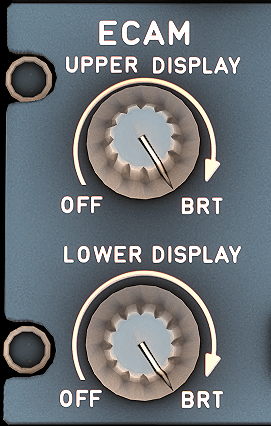
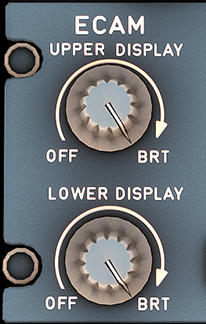
Image size fix

diff --git a/docs/beginner-guide/starting-the-aircraft.md b/docs/beginner-guide/starting-the-aircraft.md
@@ -143,7 +143,7 @@ For the PFD and ND, the knobs are in the same location. Look left (or right when
 
 For the ECAM upper and lower display, look just in front of the throttles and find the brightness knobs. Just like the PFD and ND knobs, rotate them as required.
 
-![ECAM brightness](../assets/beginner-guide/starting-aircraft/ecam-knobs.png "ECAM brightness"){ width=30% }
+![ECAM brightness](../assets/beginner-guide/starting-aircraft/ecam-knobs.png "ECAM brightness")
 
 For the ISIS display brightness (just left of the upper ECAM), use the `+` and `-` buttons until the brightness is suitable. While we are at the ISIS display, set the current QNH.
 
@@ -157,14 +157,14 @@ Looking down at the **radio panel**, set the `RMP 1` to the active **ATIS** freq
 
 ![Radio Panel](../assets/beginner-guide/starting-aircraft/radiopanel.png "Radio Panel"){ width=70% }
 
-After setting correct frequencies, locate the `BARO` reference on the **glareshield**. We can set the barometer in either `in Hg` or `hPa` by turning the grey inner selector behind the knob. For this flight ensure that you are set to `QNH`. You can change this by "pushing" on the BARO knob (the tooltip will have an upwards arrow). 
+After setting correct frequencies, locate the `BARO` reference on the **glareshield**. We can set the barometer in either `in Hg` or `hPa` by turning the grey inner selector behind the knob. For this flight ensure that you are set to `QNH`. You can change this by "pushing" on the BARO knob (the tooltip will have an upwards arrow).
 
 !!! info "A note on QNH and QFE"
     Choosing between using QNH and QFE is a little beyond the scope of this guide. In most cases you will be flying using `QNH` at or below the transition level for your flight (on departure or arrival).
 
     - **QNH:** Altimeter indicates height above sea level.
-    
-    - **QFE:** Altimeter indicates height above reference elevation in use (airfield or touchdown). This setting is usually tied to a procedure in use by the airfield, where when on the ground the altimeter will read 0. 
+
+    - **QFE:** Altimeter indicates height above reference elevation in use (airfield or touchdown). This setting is usually tied to a procedure in use by the airfield, where when on the ground the altimeter will read 0.
 
 Just below the barometer reference, turn on the `FD`. A green light indicates it has been turned on.
 
